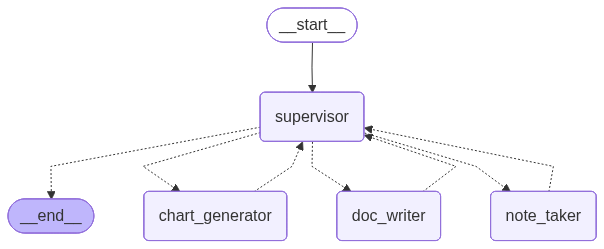
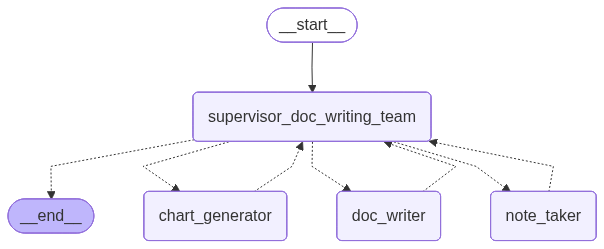
Refactorizacion

diff --git a/app/agents/hierarchy_team.py b/app/agents/hierarchy_team.py
@@ -5,16 +5,14 @@ from langgraph.types import Command
 from langchain_openai import ChatOpenAI
 from langchain_core.messages import AIMessage
 
-from ..agents.make_supervisor_node import make_supervisor_node
-from ..utils.state import DocumentWritingState, HierarchyTeamState, ResearchState # type: ignore
+from app.agents.make_supervisor_node import make_supervisor_node
+from app.utils.state import DocumentWritingState, HierarchyTeamState, ResearchState # type: ignore
 
-from ..tools.doc_tools import *
-from ..settings.settings import Settings
-from .research_team import ResearchTeam
-from .document_writer_team import DocumentWriterTeam
+from app.settings.settings import Settings
+from app.agents.research_team import ResearchTeam
+from app.agents.document_writer_team import DocumentWriterTeam
 
 settings = Settings()
-
 
 class HierarchyTeam:
 
@@ -49,7 +47,7 @@ class HierarchyTeam:
             update={
                 "messages": [
                     AIMessage(
-                        content=response["messages"][-1].content, name="research_team"
+                        content=response["messages"][-1].content, name="supervisor_research_team"
                     )
                 ]
             },
@@ -62,7 +60,7 @@ class HierarchyTeam:
             update={
                 "messages": [
                     AIMessage(
-                        content=response["messages"][-1].content, name="writing_team"
+                        content=response["messages"][-1].content, name="supervisor_doc_writing_team"
                     )
                 ]
             },
@@ -71,12 +69,13 @@ class HierarchyTeam:
     
     @property
     def hierarchy_graph(self):
-        teams_supervisor_node = make_supervisor_node(self.llm_gemini_flash, ["research_team", "writing_team"])
+        teams_supervisor_node = make_supervisor_node(self.llm_gemini_flash, ["supervisor_research_team", "supervisor_doc_writing_team"])
         hierarchy_team_builder = StateGraph(HierarchyTeamState)
-        hierarchy_team_builder.add_node("supervisor", teams_supervisor_node) # type: ignore
-        hierarchy_team_builder.add_node("research_team", self.call_research_team)
-        hierarchy_team_builder.add_node("writing_team", self.call_paper_writing_team)
+        hierarchy_team_builder.add_node(node="supervisor", action=teams_supervisor_node) # type: ignore
+        hierarchy_team_builder.add_node(node="supervisor_research_team", action=self.call_research_team)
+        hierarchy_team_builder.add_node(node="supervisor_doc_writing_team", action=self.call_paper_writing_team)
 
-        hierarchy_team_builder.add_edge(START, "supervisor")
+        hierarchy_team_builder.add_edge(start_key=START, end_key="supervisor")
+
         graph = hierarchy_team_builder.compile()
         return graph

diff --git a/main.py b/main.py
@@ -1,9 +1,8 @@
-from app.tools.mcp_client import CLIENT
 from fastapi import FastAPI, HTTPException # type: ignore
 from pydantic import BaseModel # type: ignore
 from typing import List
 from contextlib import asynccontextmanager
-from IPython.display import Image, display
+# from IPython.display import Image, display
 
 # from app.agents.coordination import Coordination
 from langchain_core.messages import HumanMessage, AIMessage # type: ignore
@@ -12,6 +11,7 @@ from langgraph.graph import MessagesState # type: ignore
 # from app.agents.research_team import ResearchTeam
 # from app.agents.document_writer_team import DocumentWriterTeam
 from app.agents.hierarchy_team import HierarchyTeam
+from app.tools.mcp_client import CLIENT
 
 class ChatMessage(BaseModel):
     type: str
@@ -30,19 +30,20 @@ async def lifespan(app: FastAPI):
     """
     Gestiona el ciclo de vida del agente. Se ejecuta al iniciar y finalizar el servidor.
     """
-    # global agent_executor
     global agent_executor
-    # global agent_research_executor
     tools = await CLIENT.get_tools()
     executor = HierarchyTeam(tools=tools)
     agent_executor = executor.hierarchy_graph
+    # research_agent_executor = executor.research_agent
+    # doc_writer_executor = executor.document_writer_agent
     # try:
+    #     display(Image(research_agent_executor.get_graph().draw_mermaid_png(output_file_path="agent_research_team.png")))
+    #     display(Image(doc_writer_executor.get_graph().draw_mermaid_png(output_file_path="agent_document_writer_team.png")))
     #     display(Image(agent_executor.get_graph().draw_mermaid_png(output_file_path="agent_hierarchy_team.png")))
     # except Exception:
     #     pass
 
     yield  # La aplicación se ejecuta aquí
-    # agent_executor = None
     agent_executor = None
 
 app = FastAPI(
@@ -79,4 +80,4 @@ async def invoke_agent(request: InvokeRequest):
 
 @app.get("/")
 def read_root():
-    return {"message": "El servidor del agente de Monday.com está en funcionamiento. Usa el endpoint /invoke para interactuar."}
+    return {"message": "El servidor del agente Hierarchical RAG está en funcionamiento."}

diff --git a/app/agents/document_writer_team.py b/app/agents/document_writer_team.py
@@ -101,11 +101,12 @@ class DocumentWriterTeam(File):
     def document_writer_graph(self):
         doc_writing_supervisor_node = make_supervisor_node(llm=self.llm_gemini_flash_lite, members=["doc_writer", "note_taker", "chart_generator"])
         paper_writing_builder = StateGraph(DocumentWritingState)
-        paper_writing_builder.add_node("supervisor_doc_writing_team", doc_writing_supervisor_node) # type: ignore
-        paper_writing_builder.add_node("doc_writer", self.doc_writing_node)
-        paper_writing_builder.add_node("note_taker", self.note_taking_node)
-        paper_writing_builder.add_node("chart_generator", self.chart_generating_node)
+        paper_writing_builder.add_node(node="supervisor_doc_writing_team", action=doc_writing_supervisor_node) # type: ignore
+        paper_writing_builder.add_node(node="doc_writer", action=self.doc_writing_node)
+        paper_writing_builder.add_node(node="note_taker", action=self.note_taking_node)
+        paper_writing_builder.add_node(node="chart_generator", action=self.chart_generating_node)
 
-        paper_writing_builder.add_edge(START, "supervisor_doc_writing_team")
+        paper_writing_builder.add_edge(start_key=START, end_key="supervisor_doc_writing_team")
+
         graph = paper_writing_builder.compile()
         return graph

diff --git a/app/agents/research_team.py b/app/agents/research_team.py
@@ -1,5 +1,3 @@
-import os
-os.environ['GRPC_VERBOSITY'] = 'ERROR'
 from typing import Literal
 from langchain_google_genai import ChatGoogleGenerativeAI
 from langgraph.graph import StateGraph, START
@@ -8,11 +6,12 @@ from langchain_openai import ChatOpenAI
 from langgraph.prebuilt import create_react_agent
 from langchain_core.messages import HumanMessage, AIMessage # type: ignore
 
-from ..utils.files import File
-from ..settings.settings import Settings
-from .make_supervisor_node import make_supervisor_node
-from ..utils.monday_client import fetch_all_items_by_board_id, fetch_columns_by_board_id, fetch_item_by_board_id_by_update_date, fetch_items_by_column_value, find_boards_like_name
-from ..utils.state import ResearchState
+from app.utils.files import File
+from app.settings.settings import Settings
+from app.agents.make_supervisor_node import make_supervisor_node
+from app.utils.monday_client import fetch_all_items_by_board_id, fetch_columns_by_board_id, fetch_item_by_board_id_by_update_date, fetch_items_by_column_value, find_boards_like_name
+from app.utils.state import ResearchState
+
 settings = Settings()
 
 class ResearchTeam(File):

diff --git a/app/utils/state.py b/app/utils/state.py
@@ -1,20 +1,4 @@
-from langchain_core.messages import BaseMessage # type: ignore
-from typing import TypedDict, Annotated, List
-import operator
 from langgraph.graph import MessagesState
-
-class GraphState(TypedDict):
-    """
-    Representa el estado de nuestro grafo de agentes.
-
-    Atributos:
-        messages: La lista de mensajes que componen la conversación.
-        next_agent: El nombre del siguiente agente que el orquestador ha decidido ejecutar.
-        search_results: Los resultados de la búsqueda por similitud.
-    """
-    messages: Annotated[List[BaseMessage], operator.add]
-    next_agent: str
-    search_results: List[dict]
 
 class ResearchState(MessagesState):
     next: str

diff --git a/app/tools/mcp_client.py b/app/tools/mcp_client.py
@@ -1,5 +1,5 @@
 from langchain_mcp_adapters.client import MultiServerMCPClient # type: ignore
-from ..settings.settings import Settings
+from app.settings.settings import Settings
 settings = Settings()
 
 CLIENT = MultiServerMCPClient(
